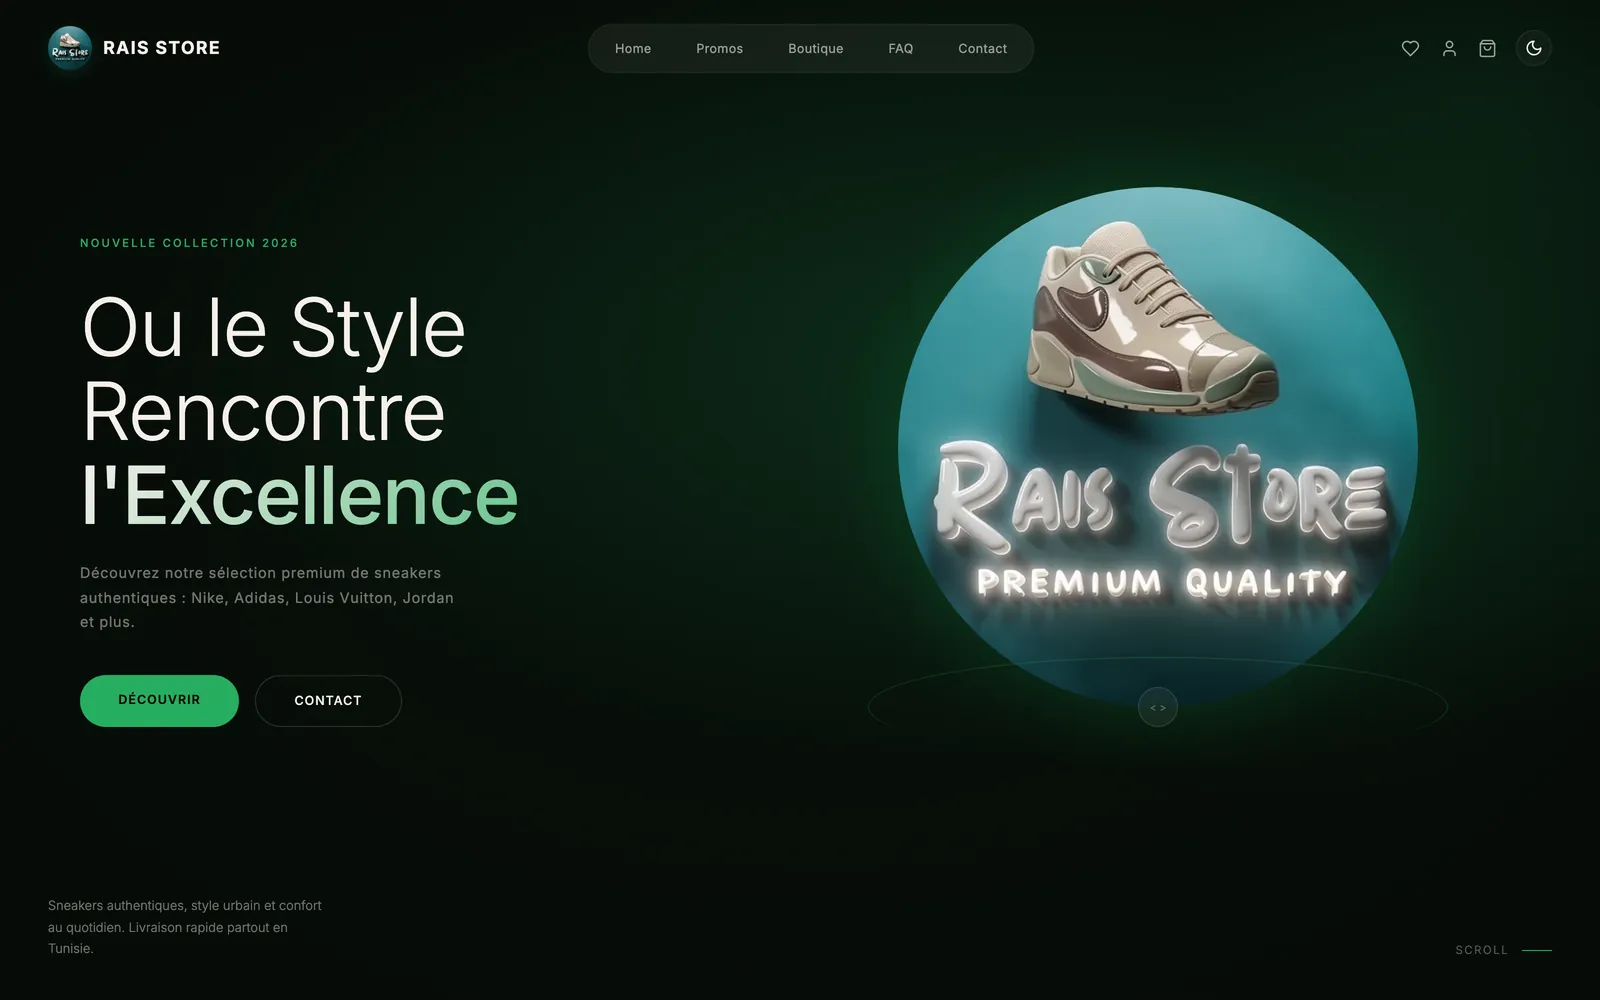
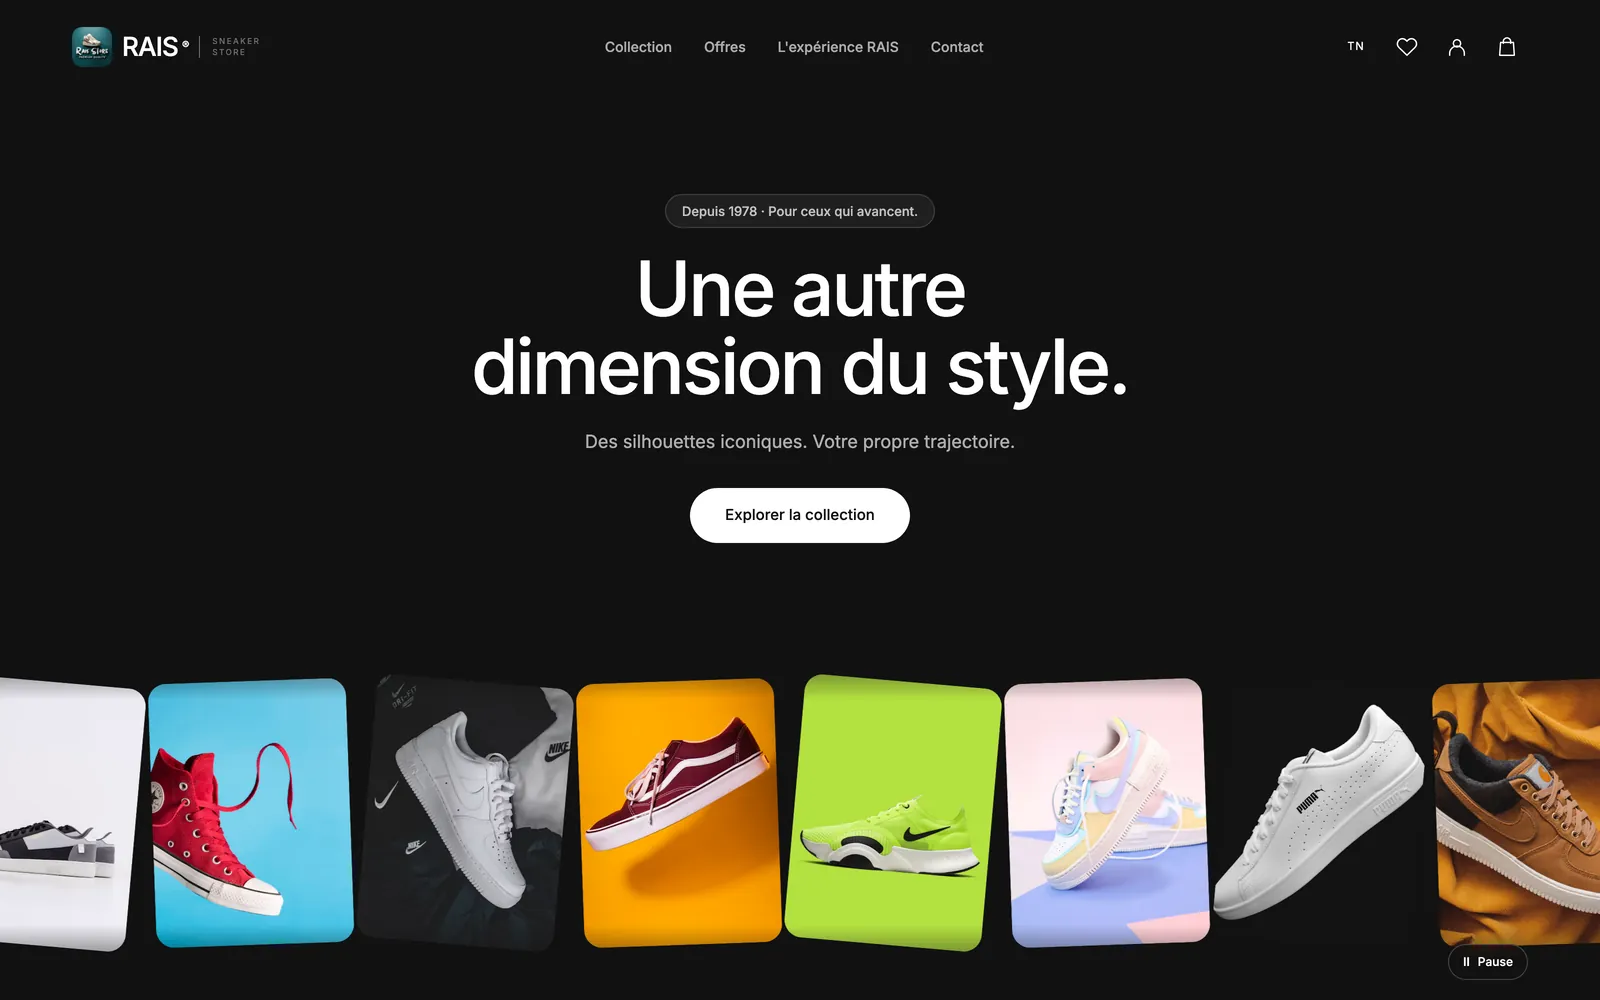
Shoot Rais Store from production and link the live site
The card now shows the real raisstore.tn storefront (home, shop, product
sheet) instead of the old local build, and links to the live site. The
catalogue comes from the API, so a dedicated script shoots production.

diff --git a/src/data/projects.ts b/src/data/projects.ts
@@ -25,6 +25,8 @@ export const projects: Project[] = [
     summary:
       "Plateforme sneakers à Tunis : vitrine PWA en dark/light, panier et commande WhatsApp, API REST NestJS (catalogue, commandes, paiements, audit) et espace admin protégé par JWT + 2FA TOTP.",
     stack: ['NestJS', 'MySQL', 'PWA', 'JWT + TOTP', 'OVH / Plesk'],
+    href: 'https://raisstore.tn/',
+    linkLabel: 'Site en ligne',
     images: ['/shots/rais-store-1.webp', '/shots/rais-store-2.webp', '/shots/rais-store-3.webp'],
   },
   {

diff --git a/README.md b/README.md
@@ -38,7 +38,7 @@ node scripts/shoot-one.mjs isp      # un seul projet
 ```
 
 Les cibles (dossier, port, positions de scroll) sont listées en haut de
-[`scripts/shoot.mjs`](scripts/shoot.mjs) ; Calyrox a sa propre passe ([`scripts/shoot-calyrox.mjs`](scripts/shoot-calyrox.mjs)) parce qu’il faut franchir sa porte d’entrée avant de scroller. Après la capture, convertir en WebP :
+[`scripts/shoot.mjs`](scripts/shoot.mjs) ; Calyrox a sa propre passe ([`scripts/shoot-calyrox.mjs`](scripts/shoot-calyrox.mjs)) parce qu’il faut franchir sa porte d’entrée avant de scroller. Rais Store aussi ([`scripts/shoot-rais.mjs`](scripts/shoot-rais.mjs)) : il est capturé en production sur raisstore.tn, puisque le catalogue vient de son API. Après la capture, convertir en WebP :
 
 ```bash
 python3 -c "
